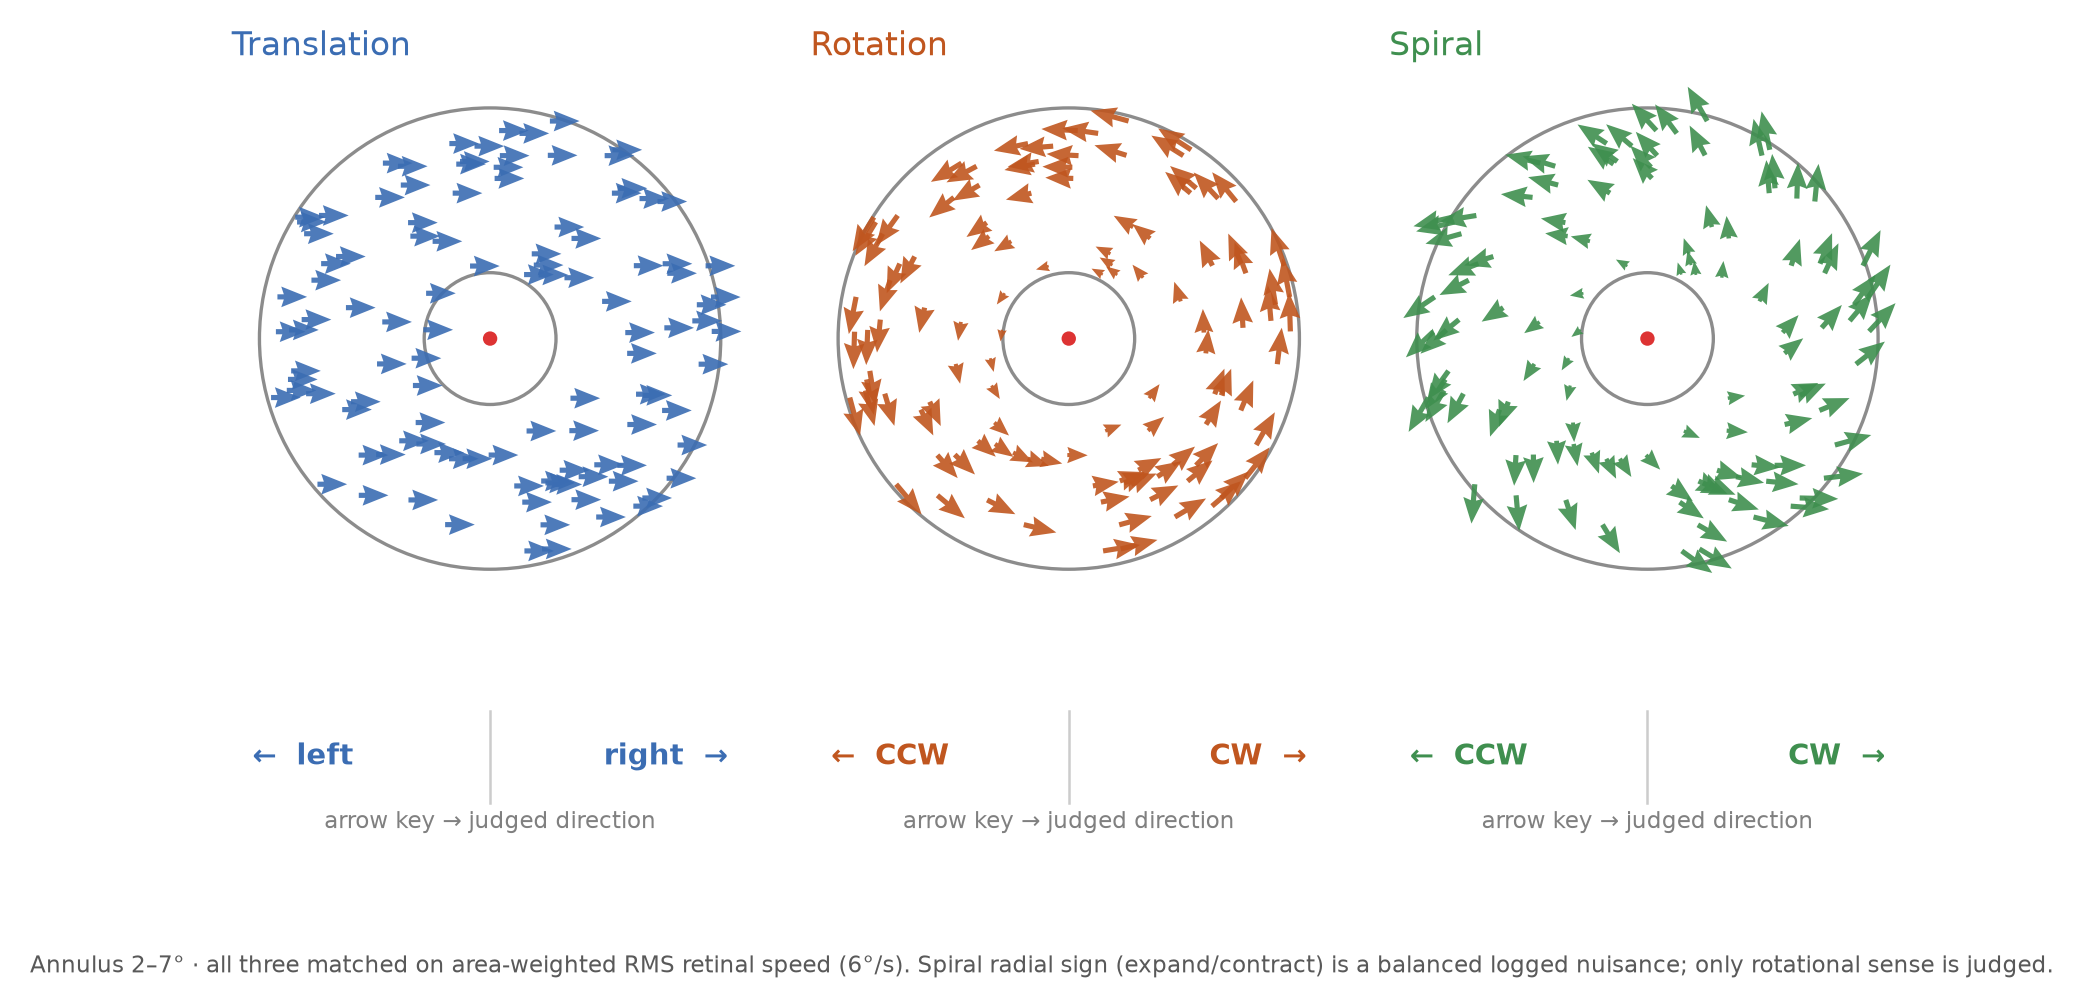
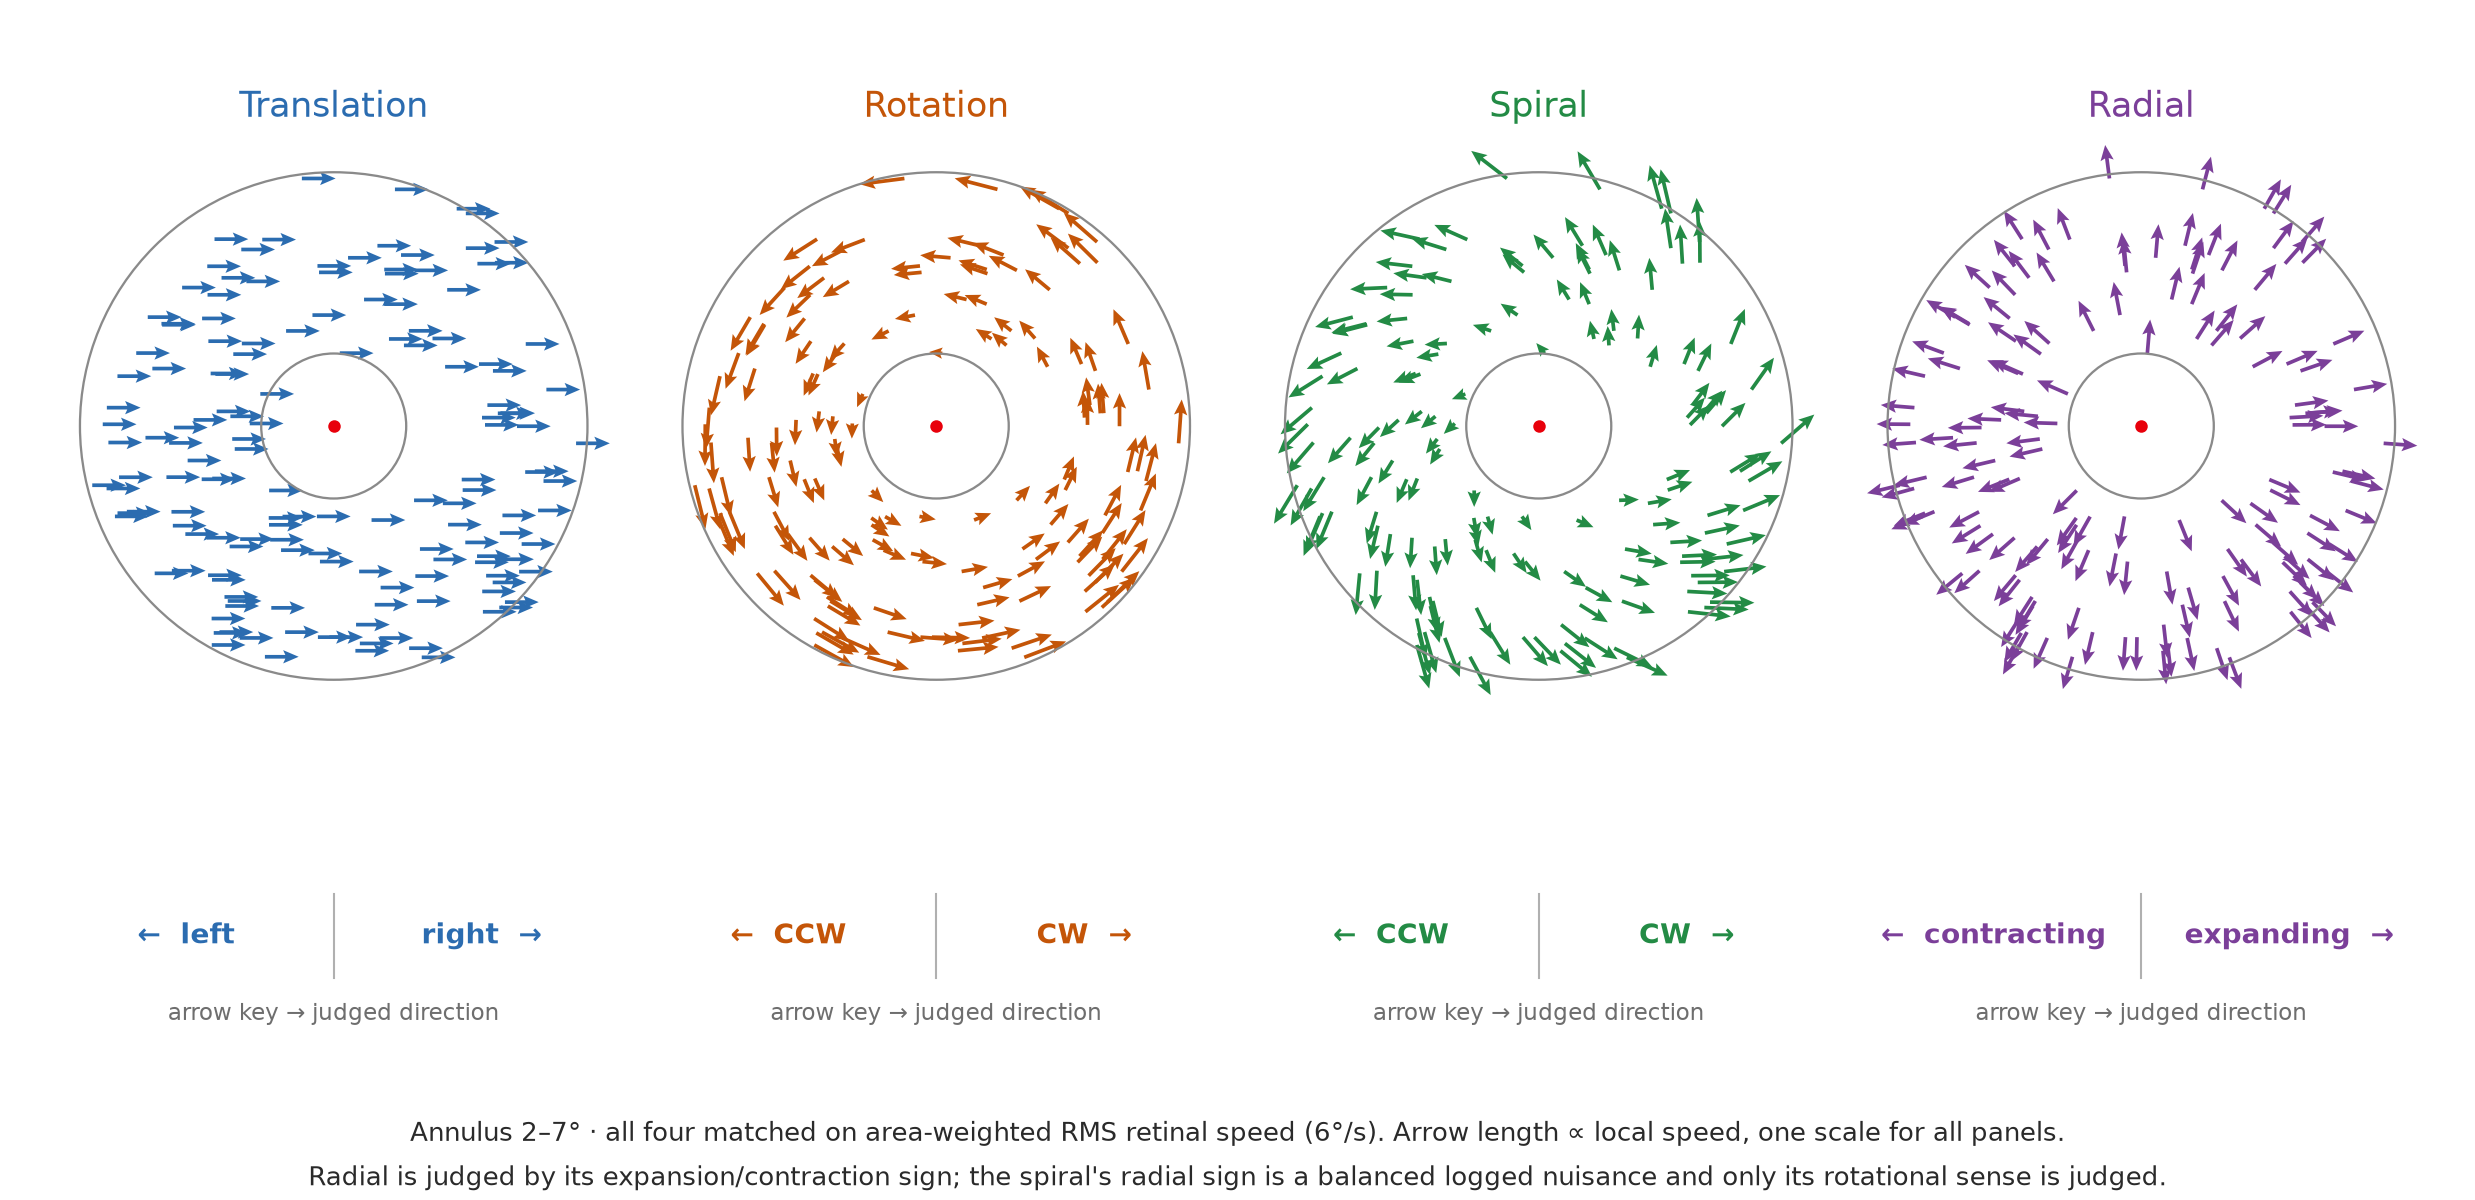
README: complete the four-motion-type pass; regenerate velocity-field figure
The radial type was added to the headline sections in 5edec72 but 19 further
references still said three: the lead figure's alt text, per-run seeding and
counterbalancing in 1a, the Prolific study count, the analysis pipeline's run
lists, the display-provenance checks, the motion-energy claim in 8b, the
data-schema direction codes, the weibull_analysis usage line, and the
pre-launch checklist (which also gained a ?load= item).

Three remaining 'three' references are correct and deliberately untouched: the
three RSVP stream designs in 6e, the three-run pilot provenance in 8b, and the
three Prolific URL parameters.

design_velocity_fields.png now has a fourth Radial panel. Adds design_figures.py
so the figure is reproducible instead of an orphaned binary -- it derives each
velocity field from the same formulas as plugin-rdk-load.js and prints the speed
statistics it asserts (all four RMS 6.00 deg/s; translation and radial flat at
6.00, rotation and spiral sharing an identical 2.33-8.16 gradient).

diff --git a/design_figures.py b/design_figures.py
@@ -1,0 +1,131 @@
+"""
+design_figures.py — regenerate design_velocity_fields.png.
+
+The velocity fields are reproduced from the SAME formulas the plugin uses
+(plugins/plugin-rdk-load.js), so the figure cannot drift from the stimulus:
+
+    <r^2> = (rOuter^2 + rInner^2) / 2            (uniform-density annulus)
+    translation : uniform v in +x                -> |v| = v           (constant)
+    rotation    : tangential, omega = v/sqrt(<r^2>)  -> |v| = omega*r (grows with r)
+    spiral      : 45 deg screw, k = v/sqrt(2<r^2>)   -> |v| = sqrt(2)*k*r = omega*r
+    radial      : uniform radial speed v          -> |v| = v           (constant)
+
+Note rotation and spiral share an identical speed MAGNITUDE field and differ
+only in direction; translation and radial are both flat at v. All four have
+area-weighted RMS speed = v, which is the equating the design relies on.
+
+Arrow lengths are proportional to local speed with ONE scale factor shared
+across panels, so the panels are directly comparable by eye.
+
+Usage:  python design_figures.py          (writes design_velocity_fields.png)
+Dependencies: numpy, matplotlib.
+"""
+import numpy as np
+import matplotlib
+matplotlib.use("Agg")
+import matplotlib.pyplot as plt
+
+# ---- geometry (must match config.js) ----
+R_IN, R_OUT = 2.0, 7.0      # aperture inner/outer radius, deg
+V = 6.0                     # signal dot speed, deg/s
+N_ARROWS = 150
+SEED = 3
+
+meanR2 = (R_OUT**2 + R_IN**2) / 2.0
+OMEGA = V / np.sqrt(meanR2)          # rad/s   (rotation)
+K = V / np.sqrt(2 * meanR2)          # 1/s     (spiral)
+
+# Keep the three original panel hues; radial gets a distinct fourth.
+PANELS = [
+    ("Translation", "#2b6cb0", ("left", "right"), ("\u2190", "\u2192")),
+    ("Rotation",    "#c45508", ("CCW", "CW"),     ("\u2190", "\u2192")),
+    ("Spiral",      "#238b45", ("CCW", "CW"),     ("\u2190", "\u2192")),
+    ("Radial",      "#7b3f99", ("contracting", "expanding"), ("\u2190", "\u2192")),
+]
+
+
+def sample_annulus(n, rng):
+    """Area-weighted uniform sample of the annulus."""
+    r = np.sqrt(rng.uniform(size=n) * (R_OUT**2 - R_IN**2) + R_IN**2)
+    th = rng.uniform(0, 2 * np.pi, size=n)
+    return r * np.cos(th), r * np.sin(th)
+
+
+def velocity(kind, x, y):
+    """Signal-dot velocity (deg/s) at (x, y), per the plugin's formulas."""
+    r = np.hypot(x, y)
+    if kind == "Translation":
+        return np.full_like(x, V), np.zeros_like(y)        # rightward
+    if kind == "Rotation":                                  # CW on screen
+        return -OMEGA * y, OMEGA * x
+    if kind == "Spiral":                                    # CW + expanding
+        return K * (x - y), K * (y + x)
+    if kind == "Radial":                                    # expanding, |v| = V
+        return V * x / r, V * y / r
+    raise ValueError(kind)
+
+
+def make_velocity_field_figure(out_png="design_velocity_fields.png"):
+    rng = np.random.default_rng(SEED)
+    x, y = sample_annulus(N_ARROWS, rng)
+
+    fig = plt.figure(figsize=(16.5, 8.0))
+    gs = fig.add_gridspec(1, 4, left=0.02, right=0.98, top=0.95, bottom=0.34,
+                          wspace=0.06)
+    # One shared arrow scale so panels are comparable by eye. With
+    # angles/scale_units='xy' the drawn length in DATA units is magnitude/scale,
+    # so fixing the longest arrow at ARROW_MAX_DEG sets the scale.
+    speeds = [np.hypot(*velocity(p[0], x, y)) for p in PANELS]
+    ARROW_MAX_DEG = 1.25                       # longest arrow, in degrees
+    scale = max(s.max() for s in speeds) / ARROW_MAX_DEG
+
+    for i, (name, colour, alts, keys) in enumerate(PANELS):
+        ax = fig.add_subplot(gs[0, i])
+        u, v = velocity(name, x, y)
+        ax.quiver(x, y, u, v, color=colour, angles="xy", scale_units="xy",
+                  scale=scale, width=0.0065, headwidth=3.6,
+                  headlength=4.2, headaxislength=3.6, zorder=3)
+        for rad in (R_IN, R_OUT):
+            ax.add_patch(plt.Circle((0, 0), rad, fill=False, color="#8a8a8a",
+                                    lw=1.1, zorder=5))
+        ax.plot(0, 0, "o", ms=5, color="#e8000b", zorder=4)
+        ax.set_title(name, color=colour, fontsize=17, pad=12)
+        ax.set_xlim(-R_OUT * 1.12, R_OUT * 1.12)
+        ax.set_ylim(-R_OUT * 1.12, R_OUT * 1.12)
+        ax.set_aspect("equal")
+        ax.axis("off")
+
+        # response-mapping strip under each panel
+        xc = (gs[0, i].get_position(fig).x0 + gs[0, i].get_position(fig).x1) / 2
+        half = (gs[0, i].get_position(fig).x1 - gs[0, i].get_position(fig).x0) / 2
+        fig.text(xc - half * 0.52, 0.22, f"{keys[0]}  {alts[0]}", color=colour,
+                 fontsize=13.5, fontweight="bold", ha="center", va="center")
+        fig.text(xc + half * 0.52, 0.22, f"{alts[1]}  {keys[1]}", color=colour,
+                 fontsize=13.5, fontweight="bold", ha="center", va="center")
+        fig.lines.append(plt.Line2D([xc, xc], [0.185, 0.255], color="#b0b0b0",
+                                    lw=1.0, transform=fig.transFigure))
+        fig.text(xc, 0.155, "arrow key \u2192 judged direction", color="#6e6e6e",
+                 fontsize=11, ha="center", va="center")
+
+    fig.text(0.5, 0.055,
+             "Annulus 2\u20137\u00b0 \u00b7 all four matched on area-weighted RMS retinal "
+             "speed (6\u00b0/s). Arrow length \u221d local speed, one scale for all panels.",
+             fontsize=12.5, color="#2a2a2a", ha="center", va="center")
+    fig.text(0.5, 0.018,
+             "Radial is judged by its expansion/contraction sign; the spiral's radial "
+             "sign is a balanced logged nuisance and only its rotational sense is judged.",
+             fontsize=12.5, color="#2a2a2a", ha="center", va="center")
+    fig.savefig(out_png, dpi=150, facecolor="white")
+    return fig
+
+
+if __name__ == "__main__":
+    f = make_velocity_field_figure()
+    print("wrote design_velocity_fields.png")
+    # report the speed statistics the figure is asserting
+    rng = np.random.default_rng(SEED)
+    xx, yy = sample_annulus(200000, rng)
+    for name, *_ in PANELS:
+        sp = np.hypot(*velocity(name, xx, yy))
+        print(f"  {name:12s} RMS={np.sqrt(np.mean(sp**2)):6.3f} deg/s  "
+              f"mean={sp.mean():6.3f}  min={sp.min():6.3f}  max={sp.max():6.3f}")

diff --git a/README.md b/README.md
@@ -14,7 +14,7 @@ study measures an **objective** motion-sensitivity performance measure, which is
 robust to the uncontrolled displays, viewing distances, and refresh rates of
 online participants.
 
-![Velocity fields and response mapping for the three motion types](design_velocity_fields.png)
+![Velocity fields and response mapping for the four motion types](design_velocity_fields.png)
 
 ---
 
@@ -110,7 +110,7 @@ https://<username>.github.io/<repo>/?motion=radial
 
 If `motion` is absent, the run falls back to `CONFIG.MOTION_TYPE` (default
 `translation`). The resolved motion type is folded into the per-participant RNG
-seed, so the three runs get **independent but reproducible** trial lists and
+seed, so the four runs get **independent but reproducible** trial lists and
 letter streams.
 
 **Within-subject.** Each participant completes **all four** motion types as
@@ -123,8 +123,8 @@ split them across days if that is too long for one sitting.
 four runs (e.g. a 4×4 Latin square: T-R-S-D, R-S-D-T, S-D-T-R, D-T-R-S, where D
 = radial) removes practice/fatigue
 confounds from the between-type comparison. On Prolific this is done by
-assigning participants to the three study links in a counterbalanced order; each
-link carries a different `motion` parameter. Link a participant's three runs by
+assigning participants to the four study links in a counterbalanced order; each
+link carries a different `motion` parameter. Link a participant's four runs by
 their Prolific PID (recorded as `subject_id` in every row).
 
 **Response mapping** (also shown in the figure above):
@@ -322,7 +322,7 @@ Online_RDK_Experiment/
 │   └── plugin-rdk-load.js     # custom canvas RDK + RSVP plugin (core stimulus engine)
 ├── tests/
 │   └── verify_motion.js       # headless Node harness: kinematics, RMS matching, response mapping
-├── design_velocity_fields.png # three velocity fields + CW/CCW response mapping
+├── design_velocity_fields.png # four velocity fields + response mapping (design_figures.py)
 ├── analysis/
 │   ├── weibull_analysis.py    # single-participant pipeline (per-type Weibull fits, load pre-check, cross-type + display tag)
 │   ├── analyze.py             # group scaffold (per-type fits, motion-type effect, engagement + display-provenance gates)
@@ -426,10 +426,10 @@ https://<username>.github.io/<repo>/?motion=rotation&PROLIFIC_PID={{%PROLIFIC_PI
 ```
 
 (Prolific substitutes the real values per participant.) Set `motion=` to the
-type for **that** study — you create **three** Prolific studies, one per motion
+type for **that** study — you create **four** Prolific studies, one per motion
 type, each pointing at the same GitHub Pages URL with a different `motion`
 value. Counterbalance the order in which each participant is invited to the
-three (§1a).
+four (§1a).
 
 ### 6b. Completion redirect
 1. On Prolific, choose **"Redirect to a URL"** (or use a completion code).
@@ -622,9 +622,9 @@ One row per jsPsych trial. Rows where `trial_kind == "rdk"` are the RDK trials;
 | `load_condition` | `low` / `high` |
 | `load_design` | `single:low` / `single:high` / `both` — which load design this run used (§1b) |
 | `reps_per_cell_used` | reps per coherence × direction cell actually run (16 single-load, 8 two-block) |
-| `motion_type` | `translation` / `rotation` / `spiral` (fixed per run) |
+| `motion_type` | `translation` / `rotation` / `spiral` / `radial` (fixed per run) |
 | `coherence` | motion coherence 0–1 |
-| `direction` | true motion direction — `left`/`right` (translation) or `cw`/`ccw` (rotation, spiral) |
+| `direction` | true motion direction — `left`/`right` (translation), `cw`/`ccw` (rotation, spiral), or `expand`/`contract` (radial) |
 | `radial_direction` | spiral only — `expand`/`contract` nuisance sign (`null`/`na` otherwise) |
 | `motion_response` | participant's direction choice (`left`/`right` or `cw`/`ccw`) |
 | `motion_correct` | boolean — direction correct |
@@ -655,7 +655,7 @@ participants' CSVs: load → QC exclusions → per-participant Weibull psychomet
 fit → 75% coherence threshold → **motion-type main effect**, **per-type paired
 load test** (with the load-engagement gate), plus figures. It is motion-type
 aware: runs are matched within participant by `subject_id` (the Prolific PID),
-so one participant's three runs (`translation`, `rotation`, `spiral`) line up
+so one participant's four runs (`translation`, `rotation`, `spiral`, `radial`) line up
 across the between-subject sample.
 
 ```bash
@@ -678,7 +678,7 @@ python analyze.py --data_dir ../data --out_dir ./out
   load cost with runs where the RSVP contrast never differentiated. → per-run
   verdicts in `load_engagement.csv`, dropped runs in `load_test_exclusions.csv`,
   surviving tests in `group_load_by_type.csv`.
-- **Display-provenance check.** Each participant self-calibrates and their three
+- **Display-provenance check.** Each participant self-calibrates and their four
   motion-type runs may fall on different days or devices. The virtual chinrest
   equates *spatial* scaling, but a change of physical display still changes
   luminance / contrast / gamma / panel persistence, which calibration cannot
@@ -709,14 +709,14 @@ is aware of the four motion types:
 ```bash
 cd analysis
 python weibull_analysis.py path/to/data.csv --out out_dir [--nboot 2000] \
-       [--motion-type translation|rotation|spiral]
+       [--motion-type translation|rotation|spiral|radial]
 ```
 
 - **Motion type is detected automatically** from the `motion_type` column and
   the full pipeline runs **per type**. A file with one type (a single run — the
   normal case) writes legacy filenames: `weibull_fit.png`, `weibull_params.csv`,
   `rsvp_tradeoff.png`, `rsvp_tradeoff_params.csv`, `direction_bias.csv`. A file
-  holding several types (e.g. a participant's three runs concatenated) prefixes
+  holding several types (e.g. a participant's four runs concatenated) prefixes
   every output with the type (`rotation_weibull_fit.png`, …) and writes a
   cross-type `weibull_params_all_types.csv`. `--motion-type` restricts to one
   type. CSVs with no `motion_type` column (earliest translation-only pilots) are
@@ -783,7 +783,8 @@ python weibull_analysis.py path/to/data.csv --out out_dir [--nboot 2000] \
   judgement).
 
 Validated on real translation data (reproduces the prior run's thresholds) and
-on a synthetic three-type file (per-type facet, cw/ccw tables, spiral radial
+on a synthetic four-type file (per-type facet, cw/ccw tables, radial sign
+thresholds, spiral radial
 check, and cross-type comparison all produced).
 
 ---
@@ -809,10 +810,16 @@ It checks, at full coherence (all dots signal, deterministic motion):
 - **Spiral** — radius grows (expand) / shrinks (contract), angle advances with
   the right sign, and the **balanced-screw** identity |Δr| = r·|Δθ| holds (local
   45°).
+- **Radial** — radius grows (expand) / shrinks (contract), the angular
+  component is exactly zero, the per-frame step equals the uniform reference
+  speed, and the two signs are mirror images.
 - **Motion-energy matching** — the area-weighted RMS retinal speed is equal
-  across translation, rotation, and spiral.
+  across translation, rotation, spiral, and both radial signs; expansion and
+  contraction are additionally checked against **each other** to 2%, since an
+  energy difference between them would masquerade as the effect being measured.
 - **Response mapping** — injecting synthetic arrow keys confirms Left → CCW /
   Right → CW for rotation & spiral, Left → left / Right → right for translation,
+  Left → contract / Right → expand for radial,
   and correct scoring.
 - **Trial balance** — the spiral radial nuisance is 50/50 within every
   coherence × sense cell, and all four types produce equal trials per block.
@@ -855,7 +862,7 @@ coding requires no special handling.
 
 **Low-level motion energy is equated across types (ruled-out alternative).** A
 motion-type threshold difference is *not* attributable to a difference in
-low-level motion energy: the three velocity fields are constructed to hold the
+low-level motion energy: the four velocity fields are constructed to hold the
 kinematic ME proxy (area-weighted ⟨speed²⟩, which for the constant-size online
 dots equals ⟨area × speed²⟩) equal to the reference v². This is **verified**
 numerically on the shipped 2°–7° aperture — reproducing the plugin's discrete
@@ -981,7 +988,7 @@ resolves the confound directly, so the unknown Saturday Mac luminance no longer
 needs to be recovered.
 
 For the online sample the analogous risk is per-participant: each participant
-self-calibrates and their three runs may fall on different days or devices. A
+self-calibrates and their four runs may fall on different days or devices. A
 display-provenance check that flags participants whose runs were not collected
 under a consistent display profile is the group-level counterpart to this
 control (see `analyze.py`).
@@ -1014,7 +1021,8 @@ appropriate ethical approval.
 
 - [ ] `RECRUITMENT` set correctly (`auto` / `prolific` / `standalone`).
 - [ ] `node tests/verify_motion.js` passes (exit 0) after any engine/config change.
-- [ ] Motion type selected per run via `?motion=translation|rotation|spiral` (three studies for the within-subject design); run order counterbalanced across participants.
+- [ ] Motion type selected per run via `?motion=translation|rotation|spiral|radial` (four studies for the within-subject design); run order counterbalanced across participants.
+- [ ] Load design selected per run via `?load=low|high|both` (default `low`); low-load runs serve the motion-type contrast, `both` runs the load contrast (§1c).
 - [ ] `MIN_AGE_YEARS`, `STORE_DOB`, `COLLECT_DEMOGRAPHICS`, `EXCLUDE_PHOTOSENSITIVE` reviewed against your ethics protocol.
 - [ ] Intake questionnaire items trimmed to what your analysis uses.
 - [ ] `DATAPIPE_EXPERIMENT_ID` set; `SAVE_TO_DATAPIPE: true`.
